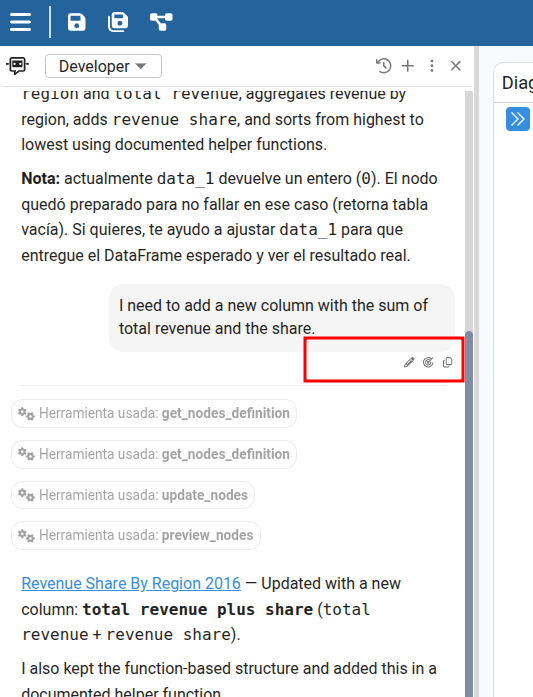
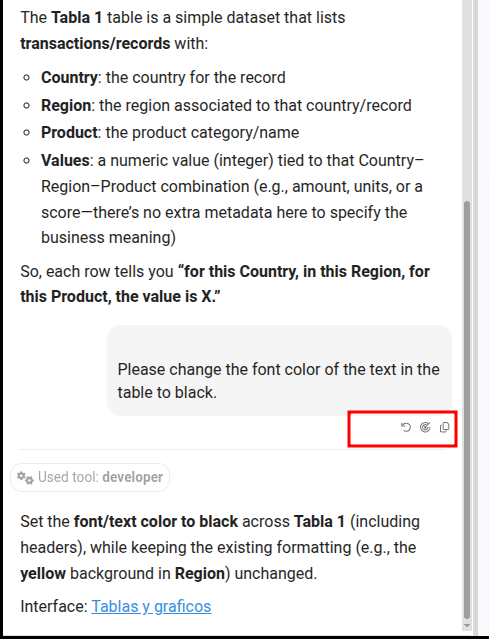
update actions available inuser messages

diff --git a/docs/user-guide/ai-agents.md b/docs/user-guide/ai-agents.md
@@ -67,12 +67,16 @@ In each **user message**, Pyplan provides a set of contextual actions that becom
 
 The available actions are the following:
 
-- **Edit message**: This action allows us to restart the conversation from a selected user message. When we confirm the action, Pyplan restores the session checkpoint for that message and removes all subsequent messages in the conversation.
+- **Restore conversation**: This action allows us to restart the conversation from a selected user message. When we confirm the action, Pyplan restores the session checkpoint for that message and removes all subsequent messages in the conversation. If the **Developer** or **Analyst** agent modified an interface during that turn, Pyplan checks whether a snapshot of the interface state exists for that checkpoint. If one is found, the confirmation dialog includes a **Revert interface changes** checkbox that we can enable to also restore the interface to the state it had before those modifications. This restoration is applied in memory only — the interface file on disk is not modified until we explicitly save the application.
 - **View traces**: If traces are available and we have permission to access them, we can open the trace detail associated with that message.
 - **Copy message**: This action copies the full content of the user message to the clipboard.
 
 :::warning
-When we edit a previous message, all messages below that point in the session are removed after confirmation.
+When we restore a previous conversation point, all messages below that point in the session are removed after confirmation.
+:::
+
+:::info
+The **Revert interface changes** checkbox is only shown when there is a saved snapshot for that checkpoint in the current chat session. Snapshots are created automatically before each Developer or Analyst turn and are discarded when a turn completes without any interface changes.
 :::
 
 ## Pyplan Agent
